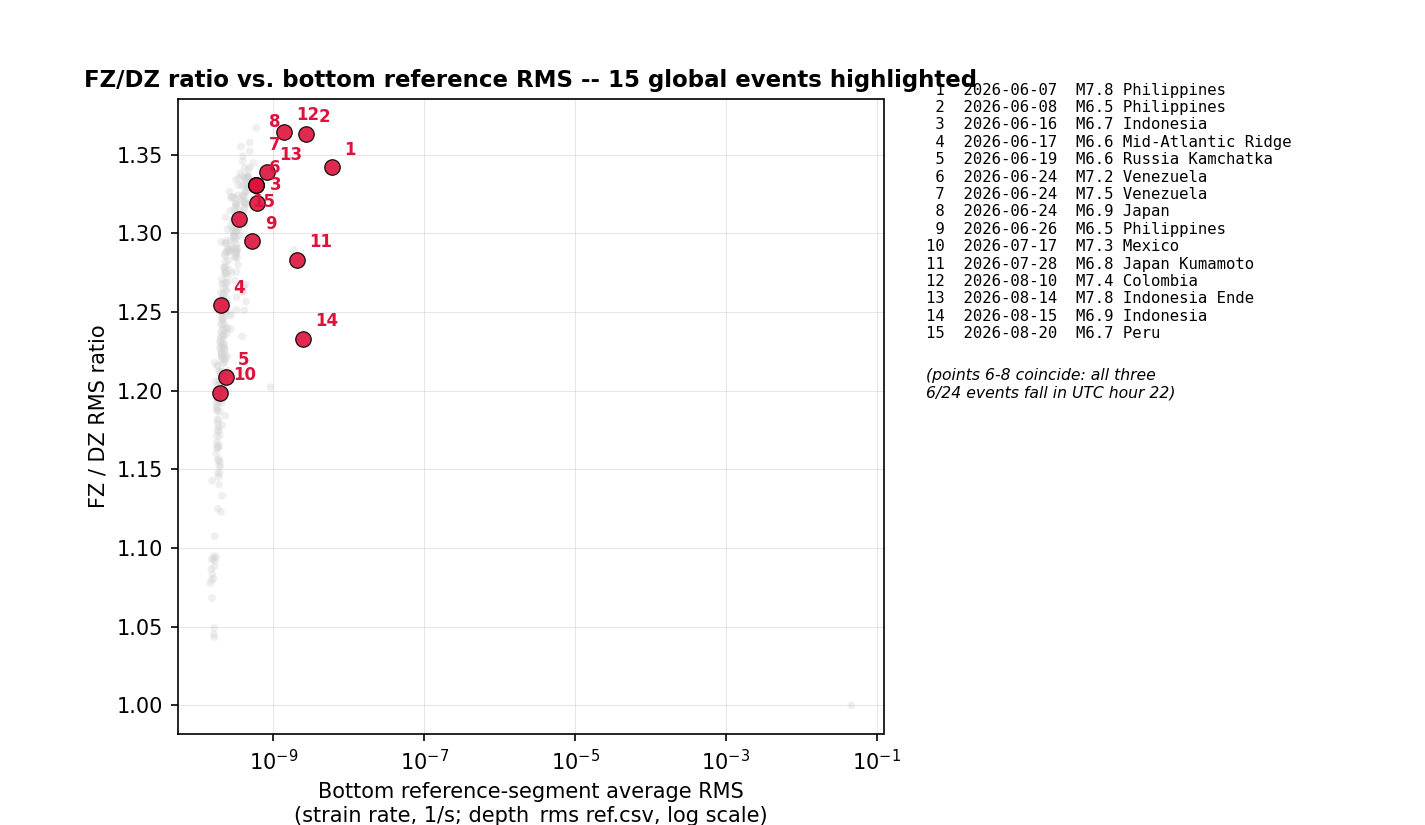
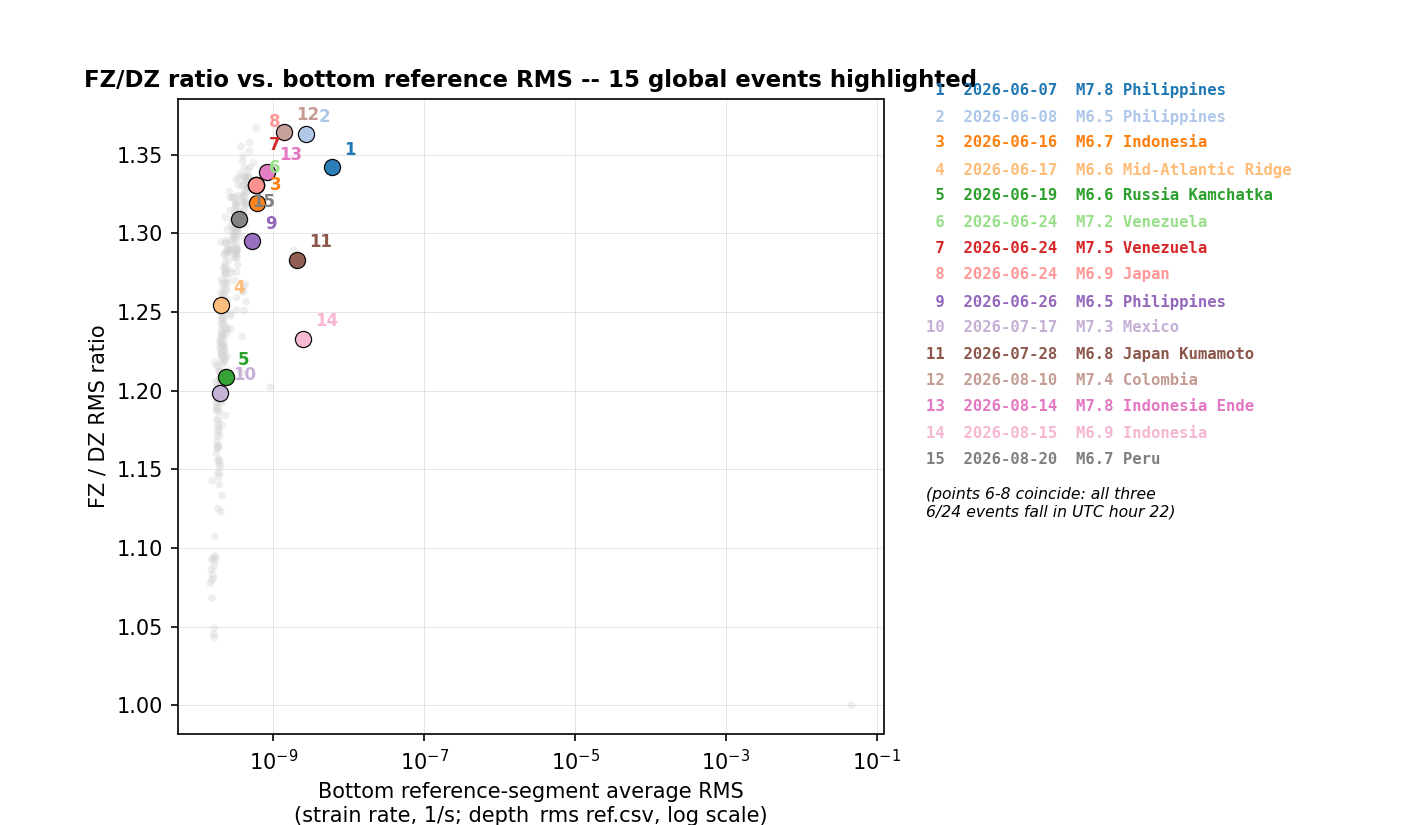
Color-code events in the DZ/FZ/ratio scatter plots, cap DZ/FZ x-axis at 1e-7
Each of the 15 events (and its number label) now gets a distinct color
(tab20) instead of uniform red. DZ and FZ plots' x-axis capped at 1e-7
(was 1e-1, driven by one loud 8/20 hour with a saturating reference RMS) so
the actual event cluster isn't squeezed into a corner.

diff --git a/scripts/plot_zone_vs_ref_scatter_events.py b/scripts/plot_zone_vs_ref_scatter_events.py
@@ -18,6 +18,7 @@ Output: agu2026/zone_vs_ref_scatter/{dz,fz,fz_dz_ratio}_vs_ref_rms_events.png
 import os
 
 import matplotlib.pyplot as plt
+import numpy as np
 import pandas as pd
 
 from plot_zone_vs_ref_scatter import DATES, load_all
@@ -50,39 +51,48 @@ def load_events():
     return merged
 
 
-def scatter_with_events(bg, ev, ycol, ylabel, title, out_png, log_y=False):
+N_EVENTS = 15
+EVENT_COLORS = [plt.cm.tab20(i / 19) for i in range(N_EVENTS)]
+
+
+def scatter_with_events(bg, ev, ycol, ylabel, title, out_png, log_y=False, xlim_hi=None):
     fig, ax = plt.subplots(figsize=(9.5, 5.5))
     ax.scatter(bg["ref_rms"], bg[ycol], s=14, alpha=0.35,
                c="lightgray", edgecolor="none", zorder=1, label="all hours")
-    ax.scatter(ev["ref_rms"], ev[ycol], s=55, alpha=0.9,
-               c="crimson", edgecolor="black", linewidth=0.6, zorder=3)
 
-    # stack labels for points sharing the same (date, hour) -- vertical offset
     ev = ev.copy()
     ev["dup_rank"] = ev.groupby(["date", "hour"]).cumcount()
     for _, row in ev.iterrows():
-        dy = 1 + row["dup_rank"] * 0.35
+        color = EVENT_COLORS[int(row["n"]) - 1]
+        ax.scatter(row["ref_rms"], row[ycol], s=60, alpha=0.95,
+                   color=color, edgecolor="black", linewidth=0.6, zorder=3)
         ax.annotate(str(int(row["n"])), (row["ref_rms"], row[ycol]),
                     xytext=(6, 6 + row["dup_rank"] * 11), textcoords="offset points",
-                    fontsize=8, fontweight="bold", color="crimson", zorder=4)
+                    fontsize=8, fontweight="bold", color=color, zorder=4)
 
     ax.set_xscale("log")
     if log_y:
         ax.set_yscale("log")
+    if xlim_hi is not None:
+        lo, _ = ax.get_xlim()
+        ax.set_xlim(lo, xlim_hi)
     ax.set_xlabel("Bottom reference-segment average RMS\n"
                    "(strain rate, 1/s; depth_rms ref.csv, log scale)", fontsize=10)
     ax.set_ylabel(ylabel, fontsize=10)
     ax.set_title(title, fontsize=11, fontweight="bold")
     ax.grid(lw=0.3, alpha=0.5)
 
-    legend_lines = [f"{int(r['n']):2d}  {r['date'][:4]}-{r['date'][4:6]}-{r['date'][6:]}  {r['label']}"
-                     for _, r in ev.iterrows()]
     fig.subplots_adjust(right=0.62)
-    fig.text(0.65, 0.90, "\n".join(legend_lines), fontsize=7.5, family="monospace",
-              va="top", ha="left")
-    fig.text(0.65, 0.90 - (len(legend_lines) + 1.5) * 0.021,
+    y0 = 0.90
+    for _, r in ev.iterrows():
+        color = EVENT_COLORS[int(r["n"]) - 1]
+        line = f"{int(r['n']):2d}  {r['date'][:4]}-{r['date'][4:6]}-{r['date'][6:]}  {r['label']}"
+        fig.text(0.65, y0, line, fontsize=7.5, family="monospace",
+                  va="top", ha="left", color=color, fontweight="bold")
+        y0 -= 0.032
+    fig.text(0.65, y0 - 0.01,
               "(points 6-8 coincide: all three\n6/24 events fall in UTC hour 22)",
-              fontsize=7.5, style="italic", va="top", ha="left")
+              fontsize=7.5, style="italic", va="top", ha="left", color="black")
 
     fig.savefig(out_png, dpi=150)
     print(f"Saved {out_png}")
@@ -96,10 +106,10 @@ def main():
 
     scatter_with_events(bg, ev, "rms_damage", "Damage zone (DZ) RMS (strain rate, 1/s)",
                          "DZ RMS vs. bottom reference RMS -- 15 global events highlighted",
-                         os.path.join(OUT_DIR, "dz_vs_ref_rms_events.png"), log_y=True)
+                         os.path.join(OUT_DIR, "dz_vs_ref_rms_events.png"), log_y=True, xlim_hi=1e-7)
     scatter_with_events(bg, ev, "rms_fault", "Fault zone (FZ) RMS (strain rate, 1/s)",
                          "FZ RMS vs. bottom reference RMS -- 15 global events highlighted",
-                         os.path.join(OUT_DIR, "fz_vs_ref_rms_events.png"), log_y=True)
+                         os.path.join(OUT_DIR, "fz_vs_ref_rms_events.png"), log_y=True, xlim_hi=1e-7)
     scatter_with_events(bg, ev, "fz_dz_ratio", "FZ / DZ RMS ratio",
                          "FZ/DZ ratio vs. bottom reference RMS -- 15 global events highlighted",
                          os.path.join(OUT_DIR, "fz_dz_ratio_vs_ref_rms_events.png"), log_y=False)
